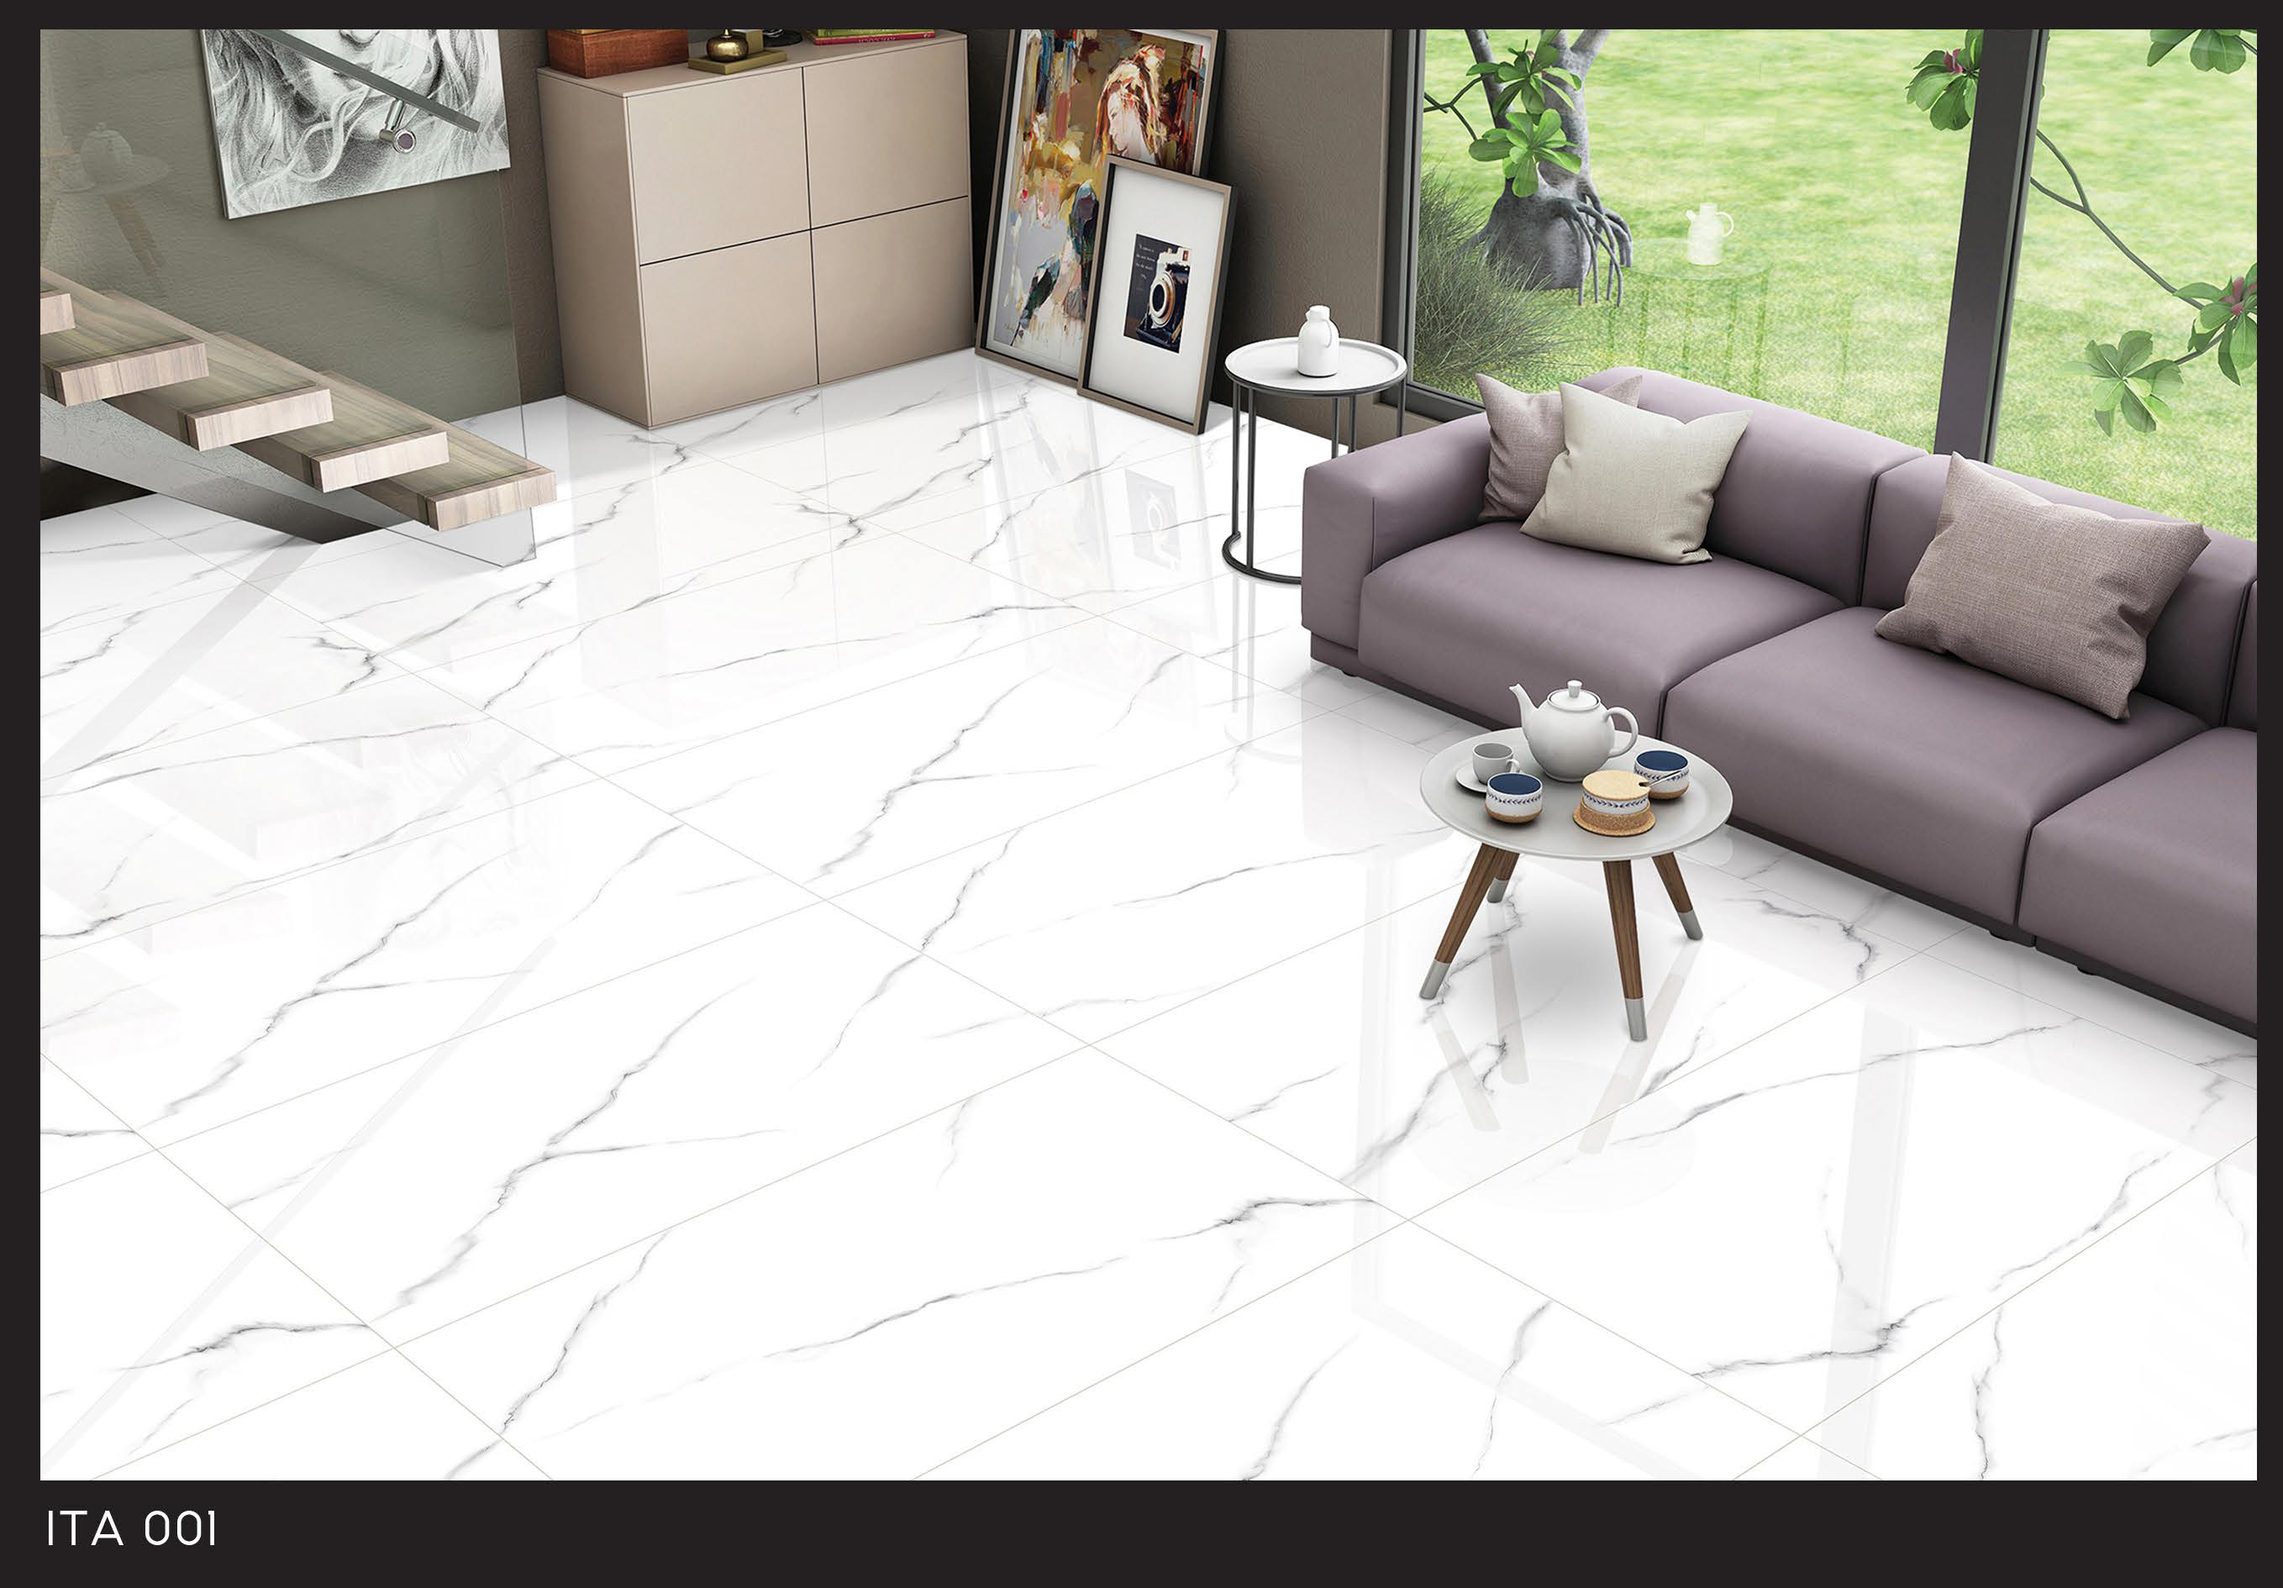
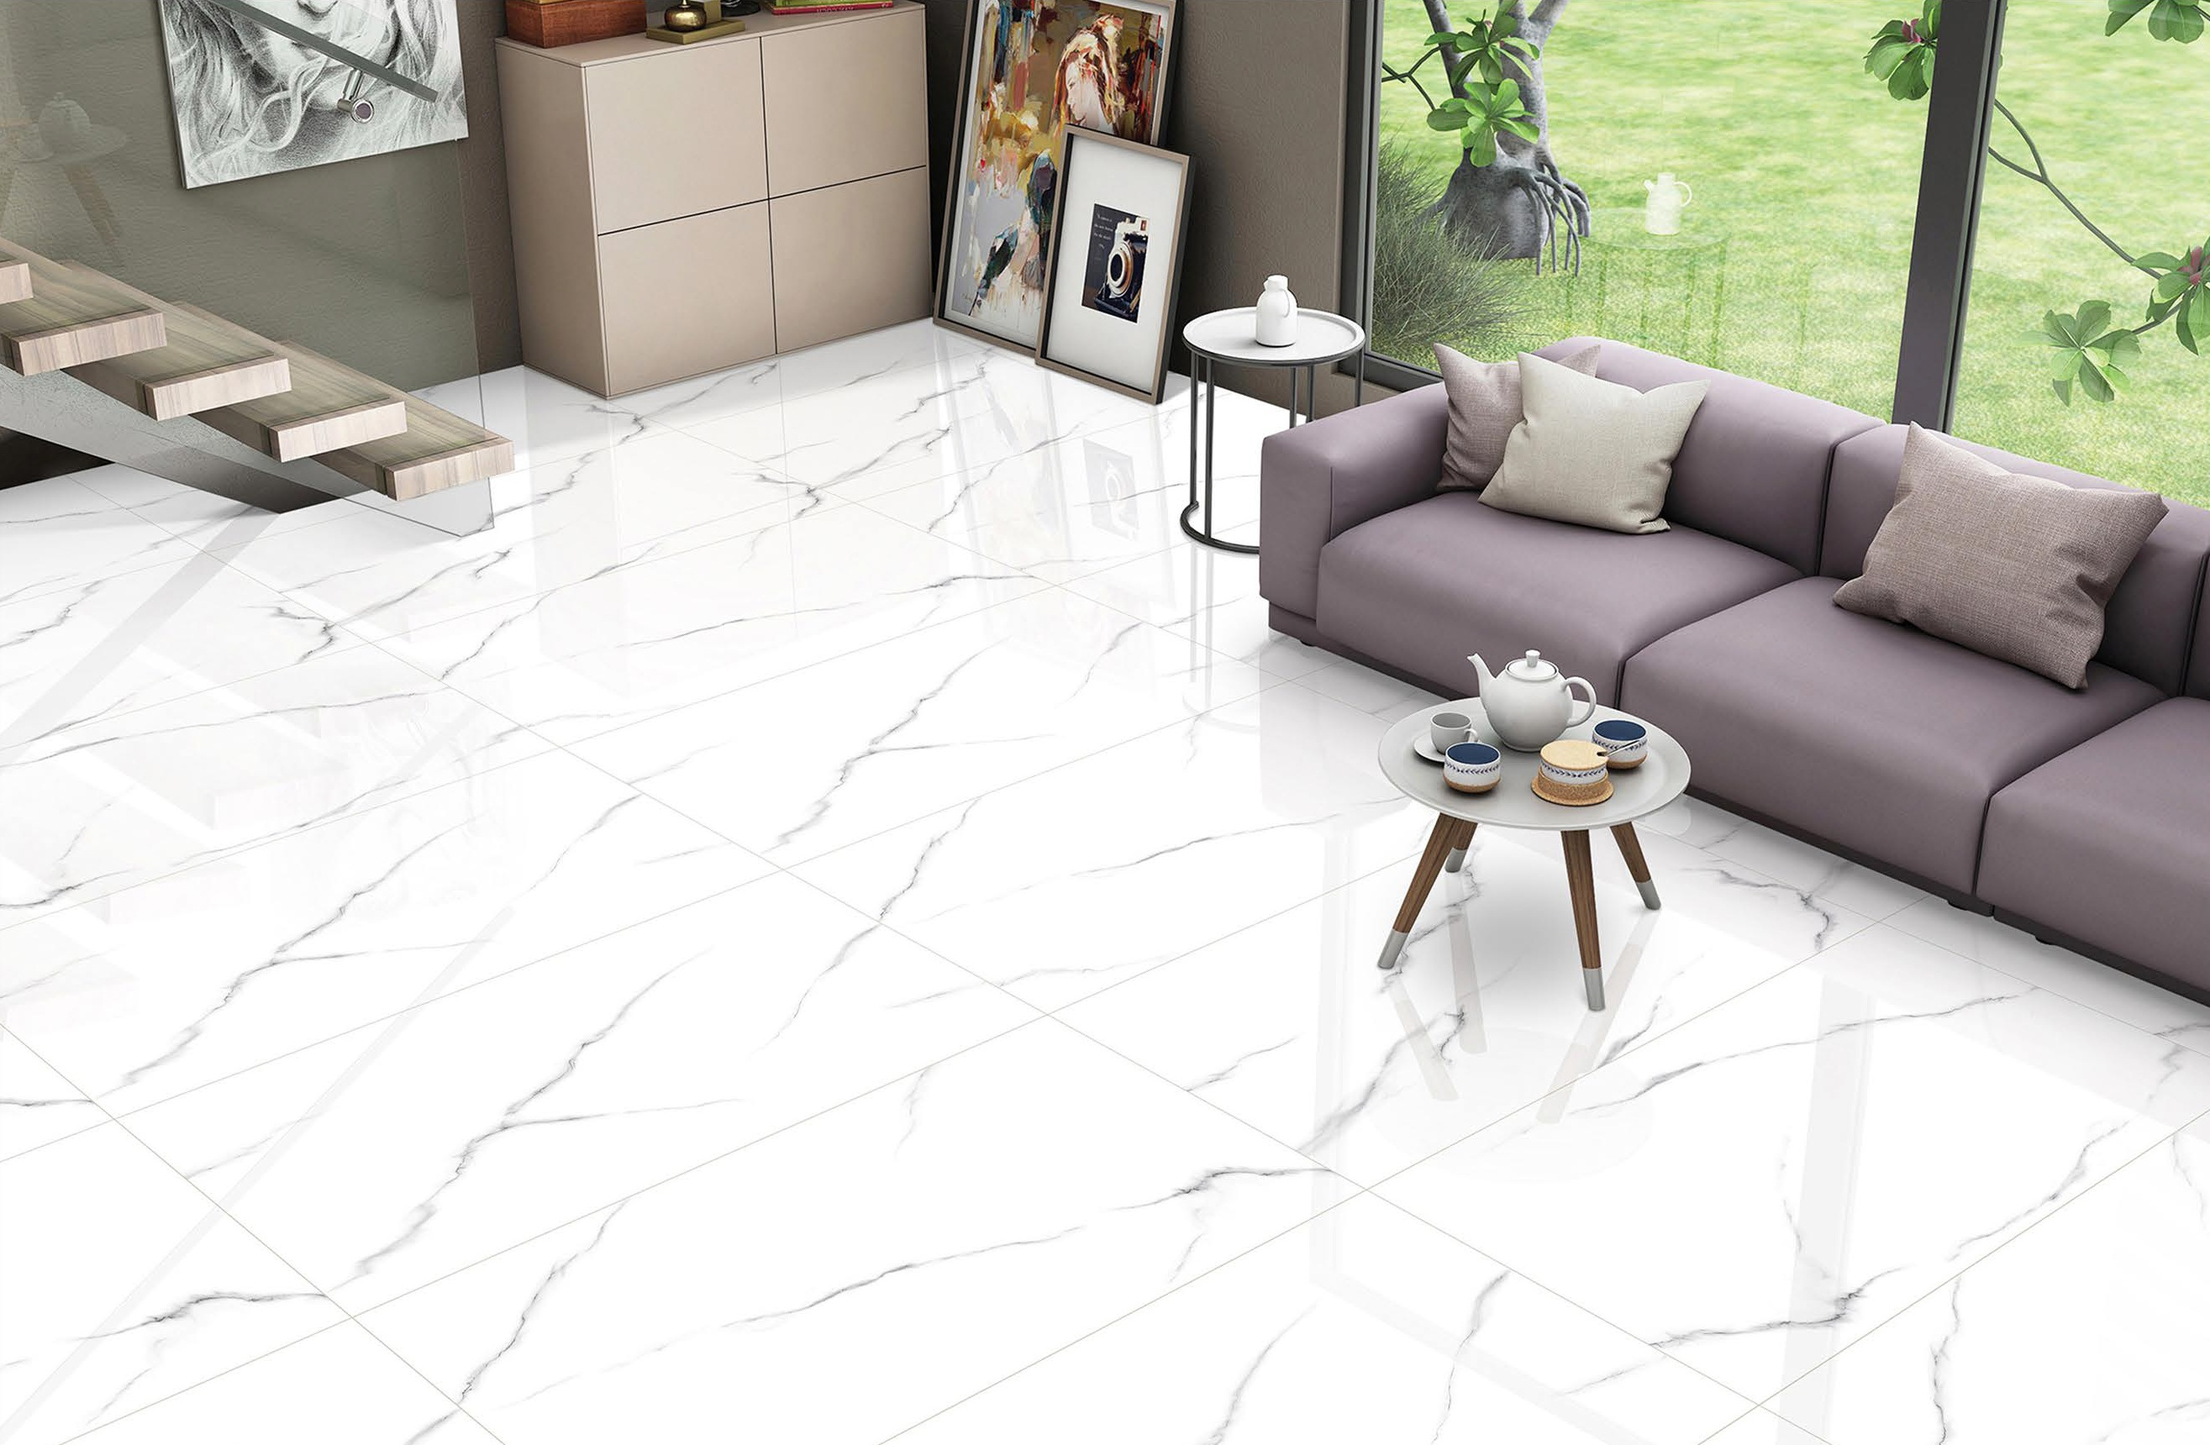
fix(catalog): crop black borders from 9 product mockup images and link clean mockups

diff --git a/lib/services/product_catalog_service.dart b/lib/services/product_catalog_service.dart
@@ -632,7 +632,7 @@ class ProductCatalogService {
       availableStock: 100,
       images: const ['assets/images/tiles/VIT-60120-8.50-GLO-MAR-WHIT-00-017.jpeg'],
       faceImages: const ['assets/images/tiles/VIT-60120-8.50-GLO-MAR-WHIT-00-017.jpeg'],
-      mockupImages: null,
+      mockupImages: const ['assets/images/mockups/VIT-60120-8.50-GLO-MAR-WHIT-00-017_mockup.jpeg'],
       finish: 'Glossy',
       thickness: '8.5 mm',
       thicknessMm: 8.5,
@@ -974,7 +974,7 @@ class ProductCatalogService {
       availableStock: 100,
       images: const ['assets/images/tiles/VIT-60120-8.50-GLO-MAR-WHIT-00-026.jpeg'],
       faceImages: const ['assets/images/tiles/VIT-60120-8.50-GLO-MAR-WHIT-00-026.jpeg'],
-      mockupImages: null,
+      mockupImages: const ['assets/images/mockups/VIT-60120-8.50-GLO-MAR-WHIT-00-026_mockup.jpeg'],
       finish: 'Glossy',
       thickness: '8.5 mm',
       thicknessMm: 8.5,
@@ -1392,7 +1392,7 @@ class ProductCatalogService {
       availableStock: 100,
       images: const ['assets/images/tiles/VIT-60120-8.50-GLO-MAR-WHIT-00-037.jpeg'],
       faceImages: const ['assets/images/tiles/VIT-60120-8.50-GLO-MAR-WHIT-00-037.jpeg'],
-      mockupImages: null,
+      mockupImages: const ['assets/images/mockups/VIT-60120-8.50-GLO-MAR-WHIT-00-037_mockup.jpeg'],
       finish: 'Glossy',
       thickness: '8.5 mm',
       thicknessMm: 8.5,
@@ -1924,7 +1924,7 @@ class ProductCatalogService {
       availableStock: 100,
       images: const ['assets/images/tiles/VIT-60120-8.50-GLO-MAR-WHIT-00-051.jpeg'],
       faceImages: const ['assets/images/tiles/VIT-60120-8.50-GLO-MAR-WHIT-00-051.jpeg'],
-      mockupImages: null,
+      mockupImages: const ['assets/images/mockups/VIT-60120-8.50-GLO-MAR-WHIT-00-051_mockup.jpeg'],
       finish: 'Glossy',
       thickness: '8.5 mm',
       thicknessMm: 8.5,
@@ -1962,7 +1962,7 @@ class ProductCatalogService {
       availableStock: 100,
       images: const ['assets/images/tiles/VIT-60120-8.50-GLO-MAR-WHIT-00-052.jpeg'],
       faceImages: const ['assets/images/tiles/VIT-60120-8.50-GLO-MAR-WHIT-00-052.jpeg'],
-      mockupImages: null,
+      mockupImages: const ['assets/images/mockups/VIT-60120-8.50-GLO-MAR-WHIT-00-052_mockup.jpeg'],
       finish: 'Glossy',
       thickness: '8.5 mm',
       thicknessMm: 8.5,
@@ -2000,7 +2000,7 @@ class ProductCatalogService {
       availableStock: 100,
       images: const ['assets/images/tiles/VIT-60120-8.50-GLO-MAR-WHIT-00-053.jpeg'],
       faceImages: const ['assets/images/tiles/VIT-60120-8.50-GLO-MAR-WHIT-00-053.jpeg'],
-      mockupImages: null,
+      mockupImages: const ['assets/images/mockups/VIT-60120-8.50-GLO-MAR-WHIT-00-053_mockup.jpeg'],
       finish: 'Glossy',
       thickness: '8.5 mm',
       thicknessMm: 8.5,

diff --git a/lib/models/tile_product.dart b/lib/models/tile_product.dart
@@ -219,6 +219,7 @@ class TileProduct {
       'randomPattern': randomPattern,
       'priceCategory': priceCategory,
       'shade': shade,
+      'mockupImages': mockupImages,
       'lifestyleImages': lifestyleImages,
       'packingDetails': packingDetails,
       'createdAt': createdAt != null
@@ -270,6 +271,9 @@ class TileProduct {
       reservedStock: rStock,
       availableStock: aStock,
       images: List<String>.from(map['images'] ?? []),
+      mockupImages: map['mockupImages'] != null
+          ? List<String>.from(map['mockupImages'])
+          : null,
       isActive: map['isActive'] ?? true,
       isComingSoon: map['isComingSoon'] ?? false,
       collection: map['collection'] ?? (prodLine == 'adhesives' ? 'Fixing Solutions' : 'Endless'),
